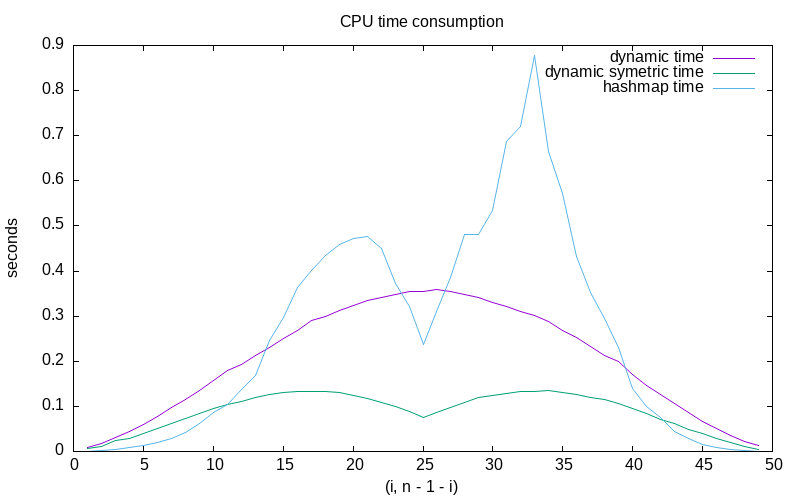
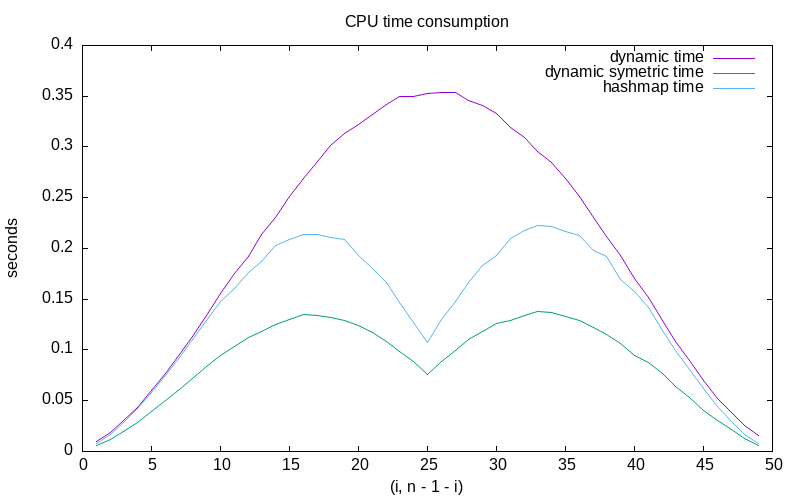
exp fix

diff --git a/TP2/tablet.c b/TP2/tablet.c
@@ -361,21 +361,31 @@ void print_tablet(tablet_t tablet)
    }
 }
 
+/*
+unsigned long hash_tablet(int m, int n)
+{
+   return ((m * BASE) % TABLE_SIZE * BASE + n) % TABLE_SIZE;
+}*/
+
 #define TABLE_1 4093
 #define BASE_1 4091
 
 #define TABLE_2 16411
 #define BASE_2 16381
 
-#define TABLE_3 65537
-#define BASE_3 65521
+#define TABLE_3 32771
+#define BASE_3 32759
 
-#define TABLE_SIZE TABLE_1
-#define BASE BASE_1
+#ifndef TABLE_SIZE
+#define TABLE_SIZE TABLE_3
+#endif
 
-unsigned long hash_tablet(int m, int n)
+unsigned int hash_tablet(tablet_t tablet)
 {
-   return ((m * BASE) % TABLE_SIZE * BASE + n) % TABLE_SIZE;
+   int hash = (tablet.m * BASE_1 + tablet.n) % TABLE_SIZE;
+   hash = (hash * BASE_2 + tablet.point.i) % TABLE_SIZE;
+   hash = (hash * BASE_3 + tablet.point.j) % TABLE_SIZE;
+   return hash;
 }
 
 int calculate_configuration_hash_init(tablet_t tablet)
@@ -410,8 +420,8 @@ int calculate_configuration_hash(tablet_t tablet, node_t *hashmap[])
    }
 
    tablet_t symetric_dimensions = get_symetric_tablet_dimension(tablet);
-
-   node_t *linked_list = hashmap[hash_tablet(symetric_dimensions.m, symetric_dimensions.n)];
+   unsigned int hash = hash_tablet(symetric_dimensions);
+   node_t *linked_list = hashmap[hash];
    while (linked_list != NULL)
    {
       if (linked_list->point.i == symetric_dimensions.point.i && linked_list->point.j == symetric_dimensions.point.j)
@@ -432,14 +442,14 @@ int calculate_configuration_hash(tablet_t tablet, node_t *hashmap[])
    }
    int max = calculate_max(configurations_res, tablet.m - 1 + tablet.n - 1);
 
-   if (hashmap[hash_tablet(symetric_dimensions.m, symetric_dimensions.n)] == NULL)
+   if (hashmap[hash_tablet(symetric_dimensions)] == NULL)
    {
       node_t *new_list = malloc(sizeof(node_t));
       new_list->point.i = symetric_dimensions.point.i;
       new_list->point.j = symetric_dimensions.point.j;
       new_list->v = max;
       new_list->next = NULL;
-      hashmap[hash_tablet(symetric_dimensions.m, symetric_dimensions.n)] = new_list;
+      hashmap[hash] = new_list;
    }
    else
    {
@@ -456,8 +466,8 @@ int calculate_configuration_hash(tablet_t tablet, node_t *hashmap[])
       new_first->v = max;
       new_first->point.i = symetric_dimensions.point.i;
       new_first->point.j = symetric_dimensions.point.j;
-      new_first->next = hashmap[hash_tablet(symetric_dimensions.m, symetric_dimensions.n)];
-      hashmap[hash_tablet(symetric_dimensions.m, symetric_dimensions.n)] = new_first;
+      new_first->next = hashmap[hash];
+      hashmap[hash] = new_first;
    }
    return max;
 }

diff --git a/TP2/tablet.h b/TP2/tablet.h
@@ -39,4 +39,4 @@ int calculate_configuration_dynamic_init_symetric(tablet_t tablet);
 void game(tablet_t tablet);
 void print_tablet(tablet_t tablet);
 int calculate_configuration_hash_init(tablet_t tablet);
-int calculate_configuration_hash(tablet_t tablet, node_t *hashmap[tablet.m * tablet.n + 1]);
+int calculate_configuration_hash(tablet_t tablet, node_t *hashmap[]);

diff --git a/TP2/experiments.c b/TP2/experiments.c
@@ -59,7 +59,7 @@ void generate_experimentations()
       sprintf(buf, "%d %lf %lf %lf\n", tablet.point.i, cpu_time_used_dynamic, cpu_time_used_dynamic_symetric, cpu_time_used_hashmap);
       fwrite(buf, strlen(buf), 1, time_file);
 
-      printf("%d\n", i);
+      printf("(%d, %d)\n", i, tablet.m - 1 - i);
    }
    fclose(memory_file);
    fclose(time_file);
